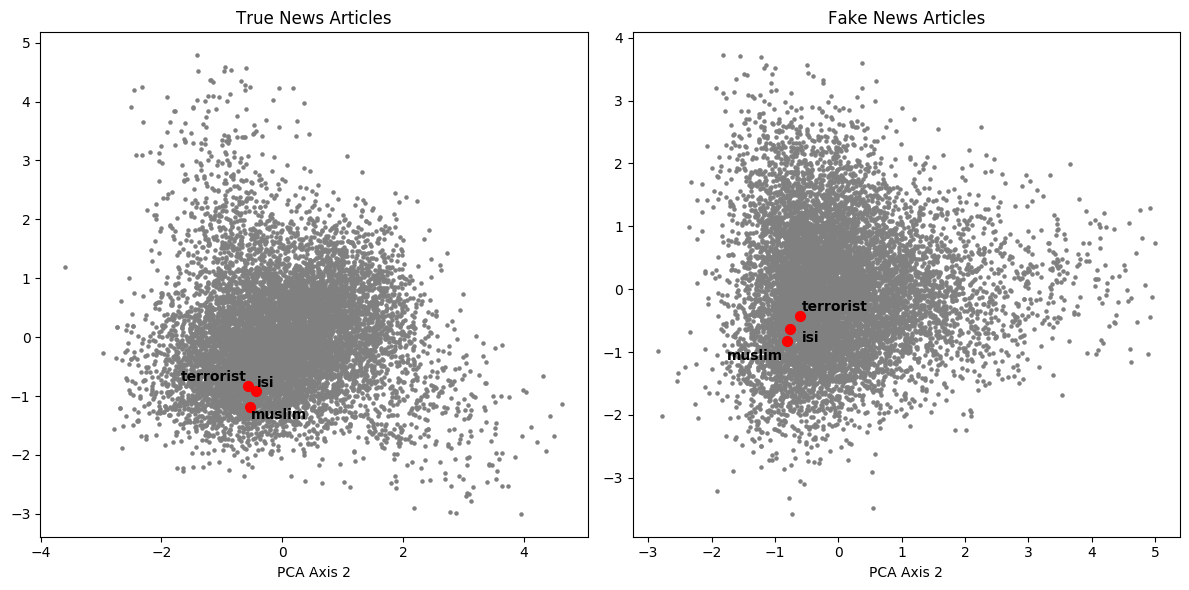
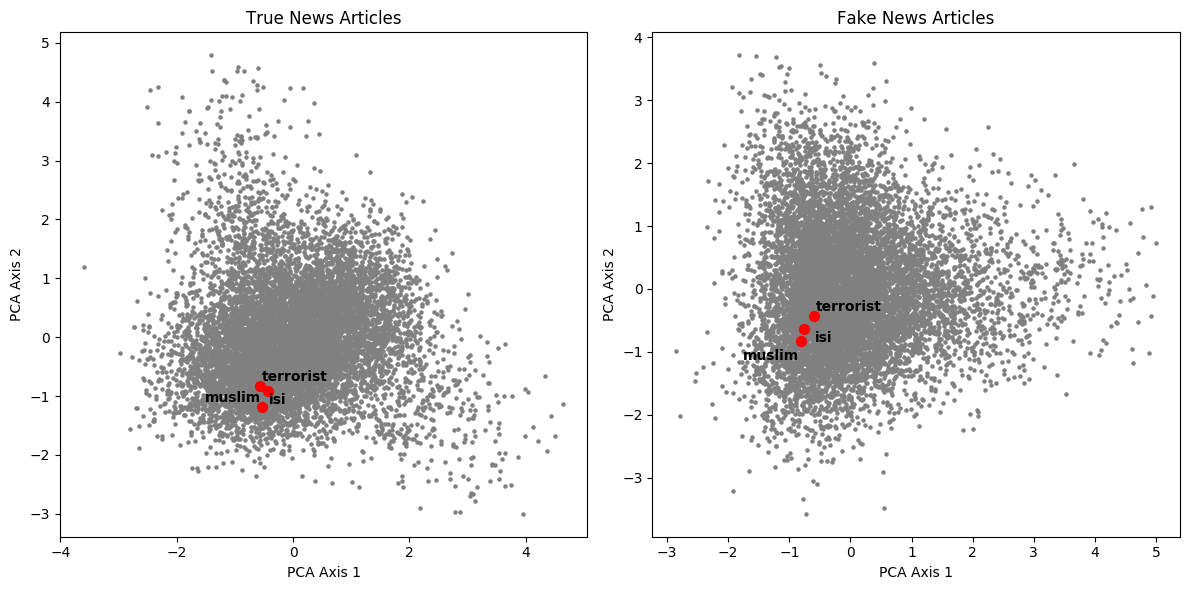
add y axis label

diff --git a/source/models/visualization_utils.py b/source/models/visualization_utils.py
@@ -59,7 +59,7 @@ def plot_word_scatter(df, words):
     subset = df[df['word'].isin(words)].reset_index(drop=True)
     plt.scatter(subset['axis_1'], subset['axis_2'], s=50, c='red')
     plt.xlabel('PCA Axis 1')
-    plt.xlabel('PCA Axis 2')
+    plt.ylabel('PCA Axis 2')
 
     texts = []
     for x, y, s in zip(subset['axis_1'], subset['axis_2'], subset['word']):
